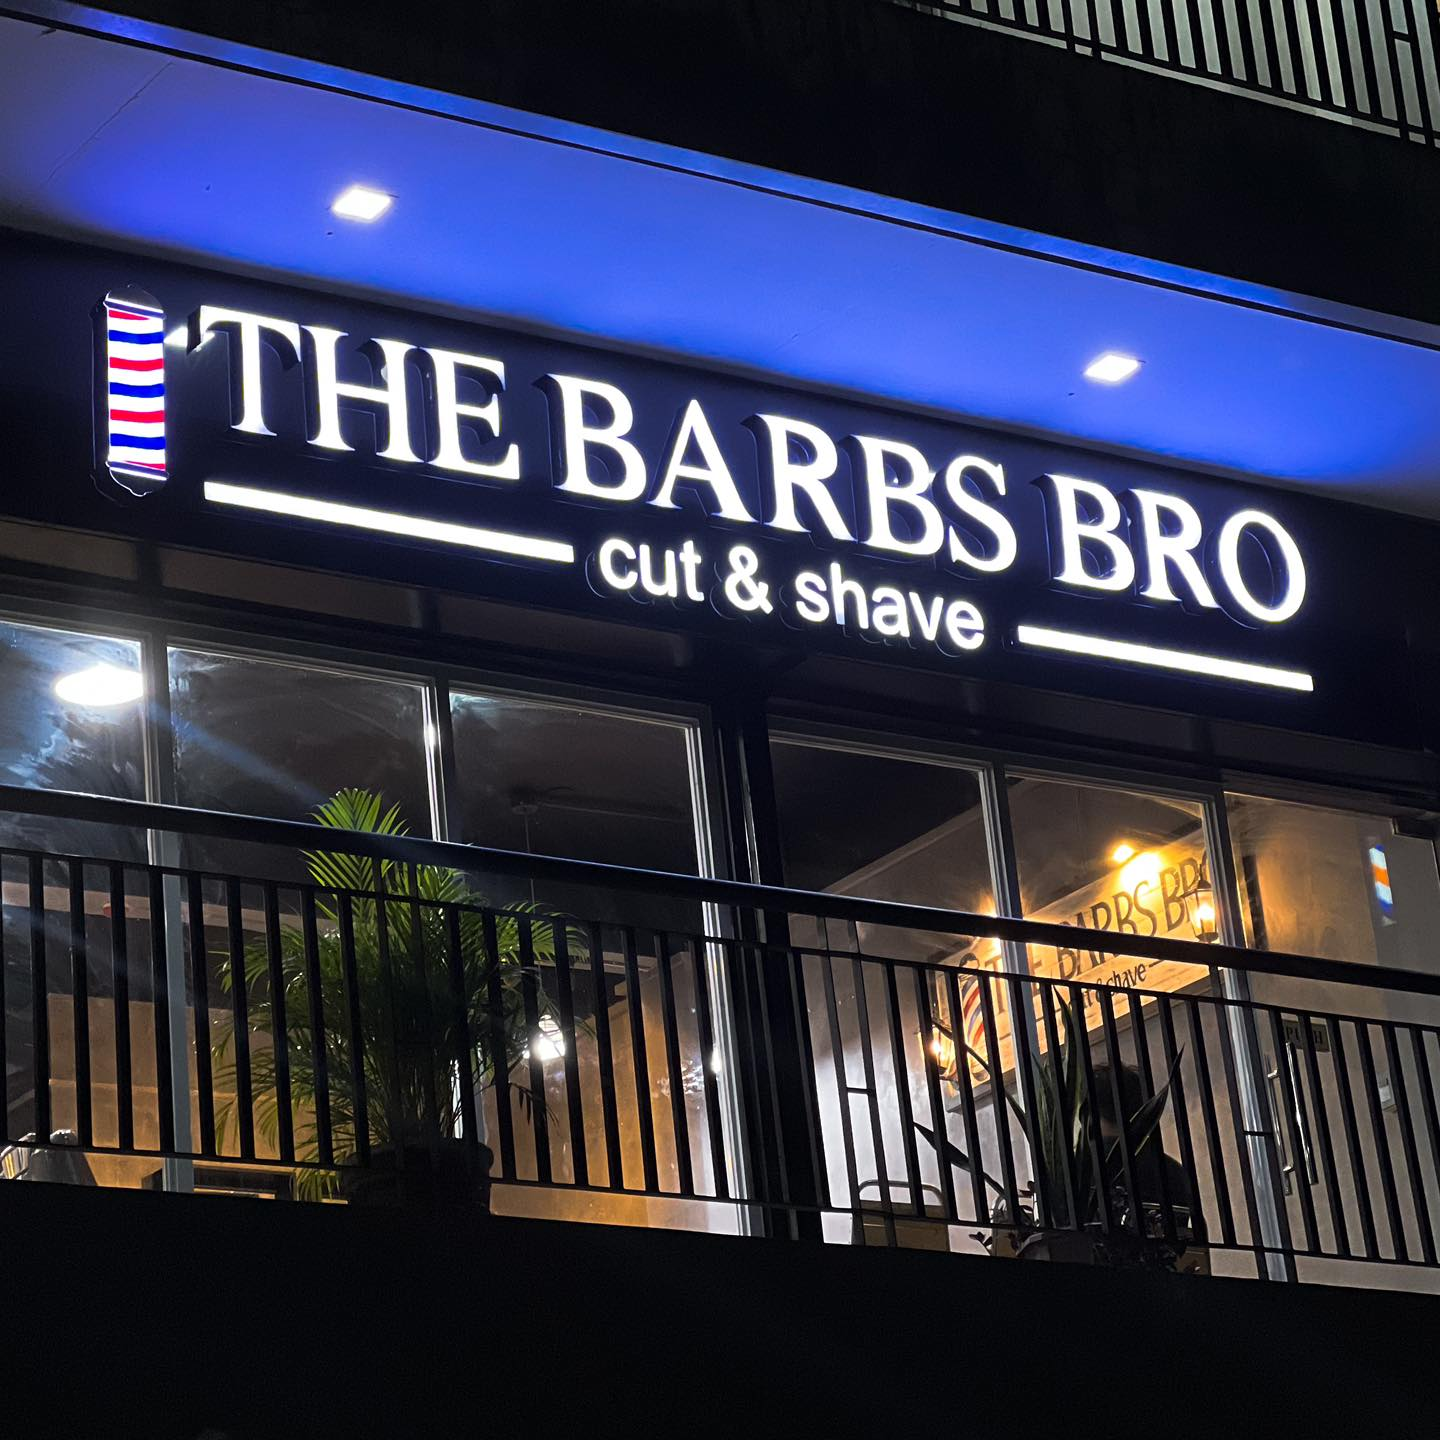
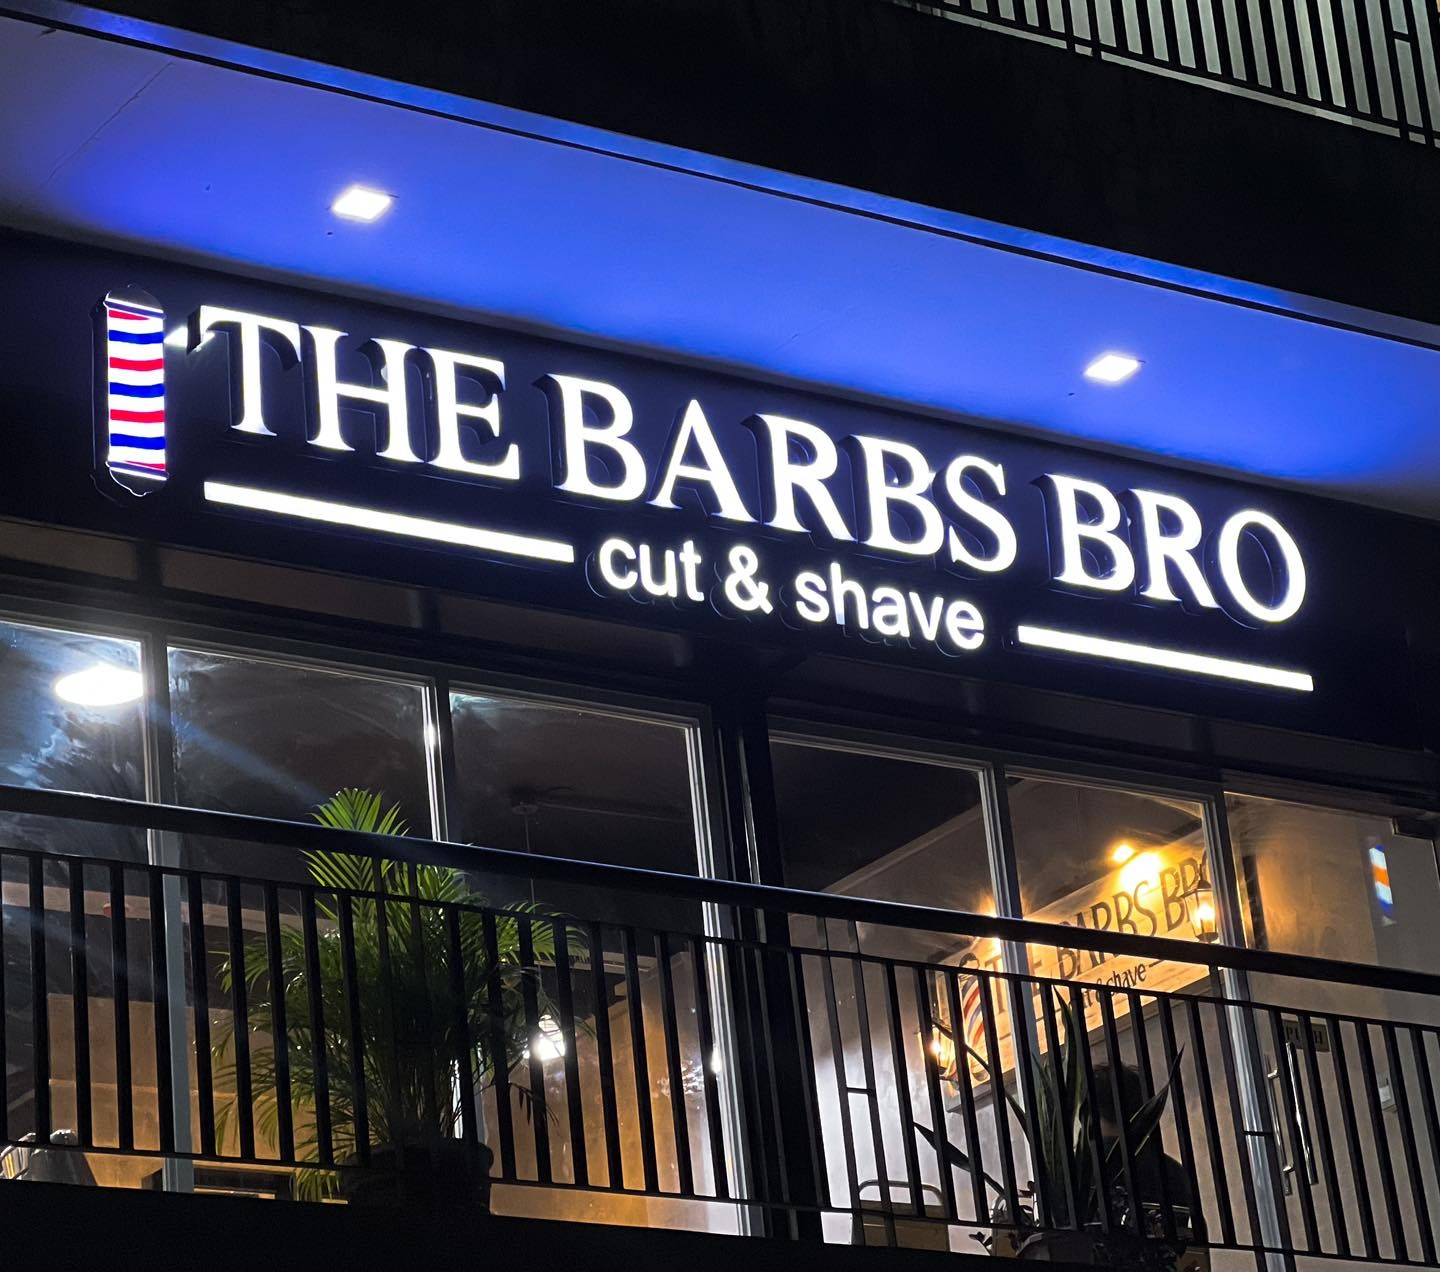
About Us Landing Page Section Images Scalable Without Cropping

diff --git a/src/AboutUsLanding.tsx b/src/AboutUsLanding.tsx
@@ -58,28 +58,46 @@ export default function BasicGrid() {
           <Item
           sx={{
             width: '100%',
-            height: '80vh',
-            backgroundImage: 'url(/AboutUs1.jpg)',
-            backgroundSize: 'cover',
-            backgroundPosition: 'center',
+            padding: 0,
             display: 'flex',
+            justifyContent: 'center',
             alignItems: 'center',
-            color: 'white',
           }}>
+            <Box
+              component="img"
+              src="/AboutUs1.jpg"
+              alt="About Us"
+              sx={{
+                width: '100%',
+                height: 'auto',
+                maxHeight: '90vh',
+                objectFit: 'contain',
+                display: 'block',
+              }}
+            />
           </Item>
         </Grid>
         <Grid size={{ xs: 12, md: 6 }}>
           <Item
           sx={{
             width: '100%',
-            height: '70vh',
-            backgroundImage: 'url(/AboutUs2.jpg)',
-            backgroundSize: 'cover',
-            backgroundPosition: 'center',
+            padding: 0,
             display: 'flex',
+            justifyContent: 'center',
             alignItems: 'center',
-            color: 'white',
           }}>
+            <Box
+              component="img"
+              src="/AboutUs2.jpg"
+              alt="Barbershop"
+              sx={{
+                width: '100%',
+                height: 'auto',
+                maxHeight: '70vh',
+                objectFit: 'contain',
+                display: 'block',
+              }}
+            />
           </Item>
         </Grid>
         <Grid size={{ xs: 12, md: 6 }}>
@@ -117,16 +135,26 @@ export default function BasicGrid() {
           <Item
           sx={{
             width: '100%',
-            height: '100vh',
-            backgroundImage: 'url(/AboutUs3.jpg)',
-            backgroundSize: 'cover',
-            backgroundPosition: 'center',
+            padding: 0,
             display: 'flex',
+            justifyContent: 'center',
             alignItems: 'center',
-            color: 'white',
           }}>
+            <Box
+              component="img"
+              src="/AboutUs3.jpg"
+              alt="About Us"
+              sx={{
+                width: '100%',
+                height: 'auto',
+                maxHeight: '80vh',
+                objectFit: 'contain',
+                display: 'block',
+              }}
+            />
           </Item>
         </Grid>
+
       </Grid>
     </Box>
     </Container>